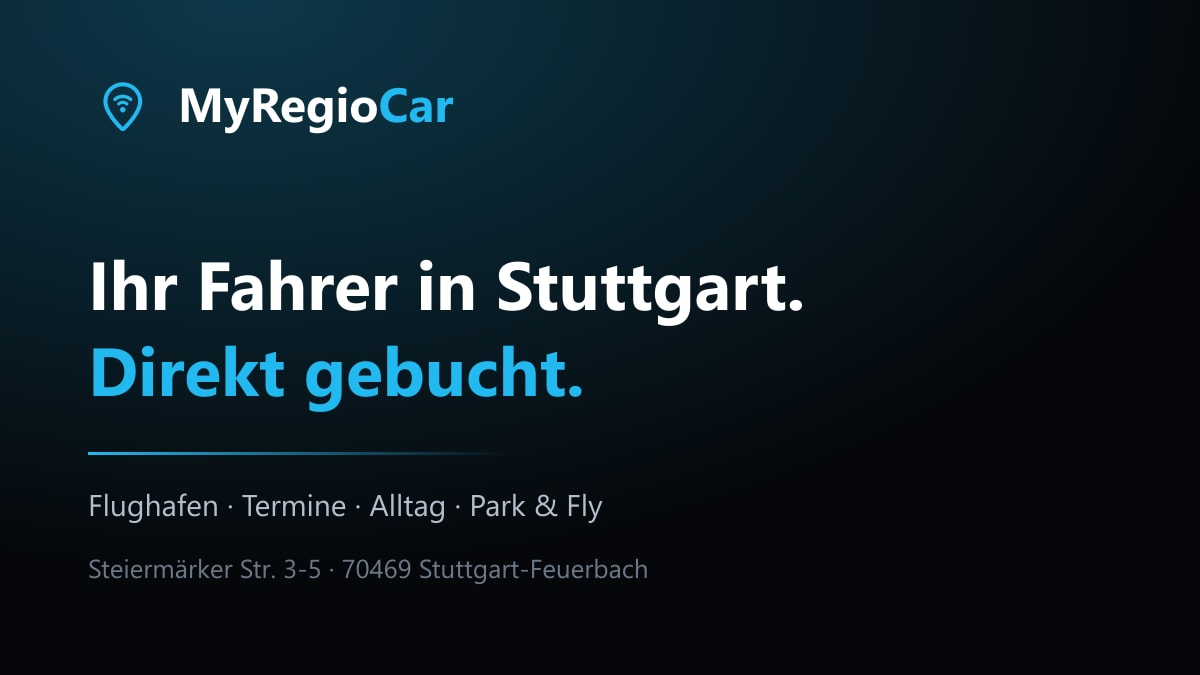
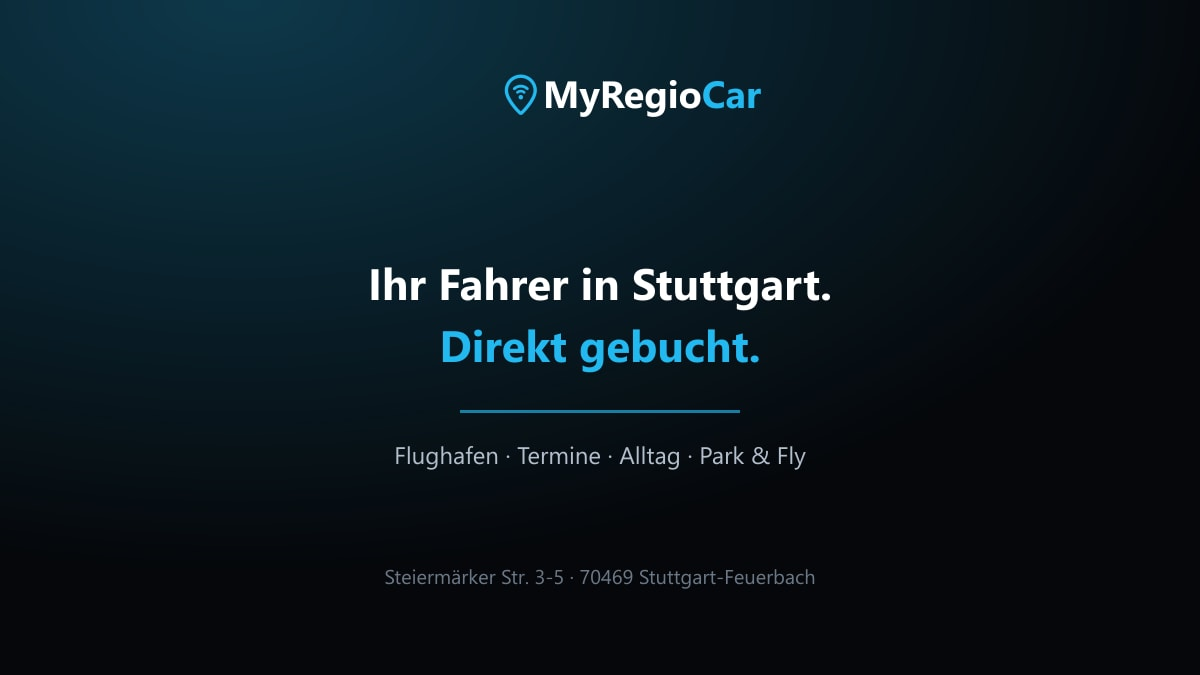
Titelbild mittig, damit es den quadratischen Zuschnitt uebersteht
Google zeigt das Hintergrundbild je nach Stelle breit oder quadratisch
beschnitten. Linksbuendig fiel der Zeilenanfang weg - auf dem Profil stand
"hr Fahrer in Stuttgart". Das Titelbild steht jetzt zentriert und bleibt
innerhalb des mittleren Quadrats; mit einem Zuschnitt auf 1:1 geprueft.

diff --git a/marke/LIESMICH.md b/marke/LIESMICH.md
@@ -51,9 +51,17 @@ Betrieb deutlich häufiger, und ein Fahrgast will das Fahrzeug sehen. Diese
 Bilder füllen die Lücke, bis es Fotos gibt – und taugen danach weiter für die
 Aussagen, die sich nicht fotografieren lassen.
 
-Als **Titelbild** gehoert `profil-titelbild.jpg` dorthin: Es steht fuer den
-ganzen Betrieb. Ein Motiv zu einer einzelnen Leistung waere an dieser
-Stelle zu eng – es ist das erste, was jemand sieht.
+Als **Titelbild** gehört `profil-titelbild.jpg` dorthin: Es steht für den
+ganzen Betrieb. Ein Motiv zu einer einzelnen Leistung wäre an dieser Stelle
+zu eng – es ist das erste, was jemand sieht.
+
+Das Titelbild ist als einziges Motiv **mittig** aufgebaut und bleibt dabei
+innerhalb des mittleren Quadrats von 675 Pixeln Breite. Grund: Google zeigt
+das Hintergrundbild je nach Stelle breit **oder** quadratisch beschnitten –
+linksbündig fiel der Zeilenanfang weg („hr Fahrer in Stuttgart"). Die Schrift
+fällt dadurch kleiner aus als bei den übrigen Motiven; das ist der Preis
+dafür. Wer den Aufbau ändert, prüft das Ergebnis mit einem Zuschnitt auf 1:1
+nach.
 
 **Neue Motive** kommen in die Liste `MOTIVE` im Skript. Die beiden großen
 Zeilen dürfen höchstens 26 Zeichen haben; das Skript bricht ab, wenn eine
